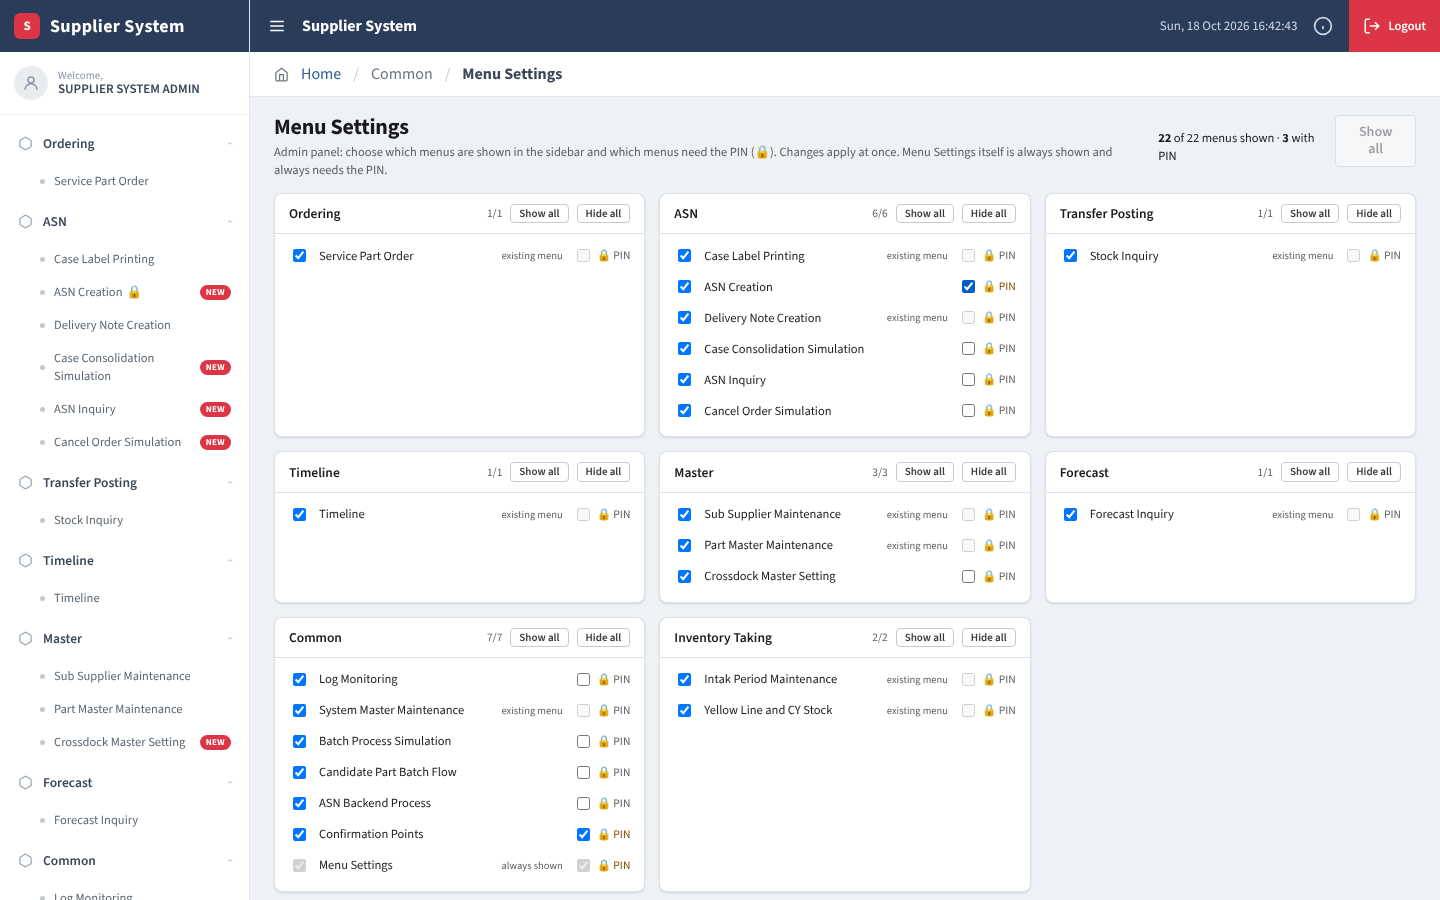
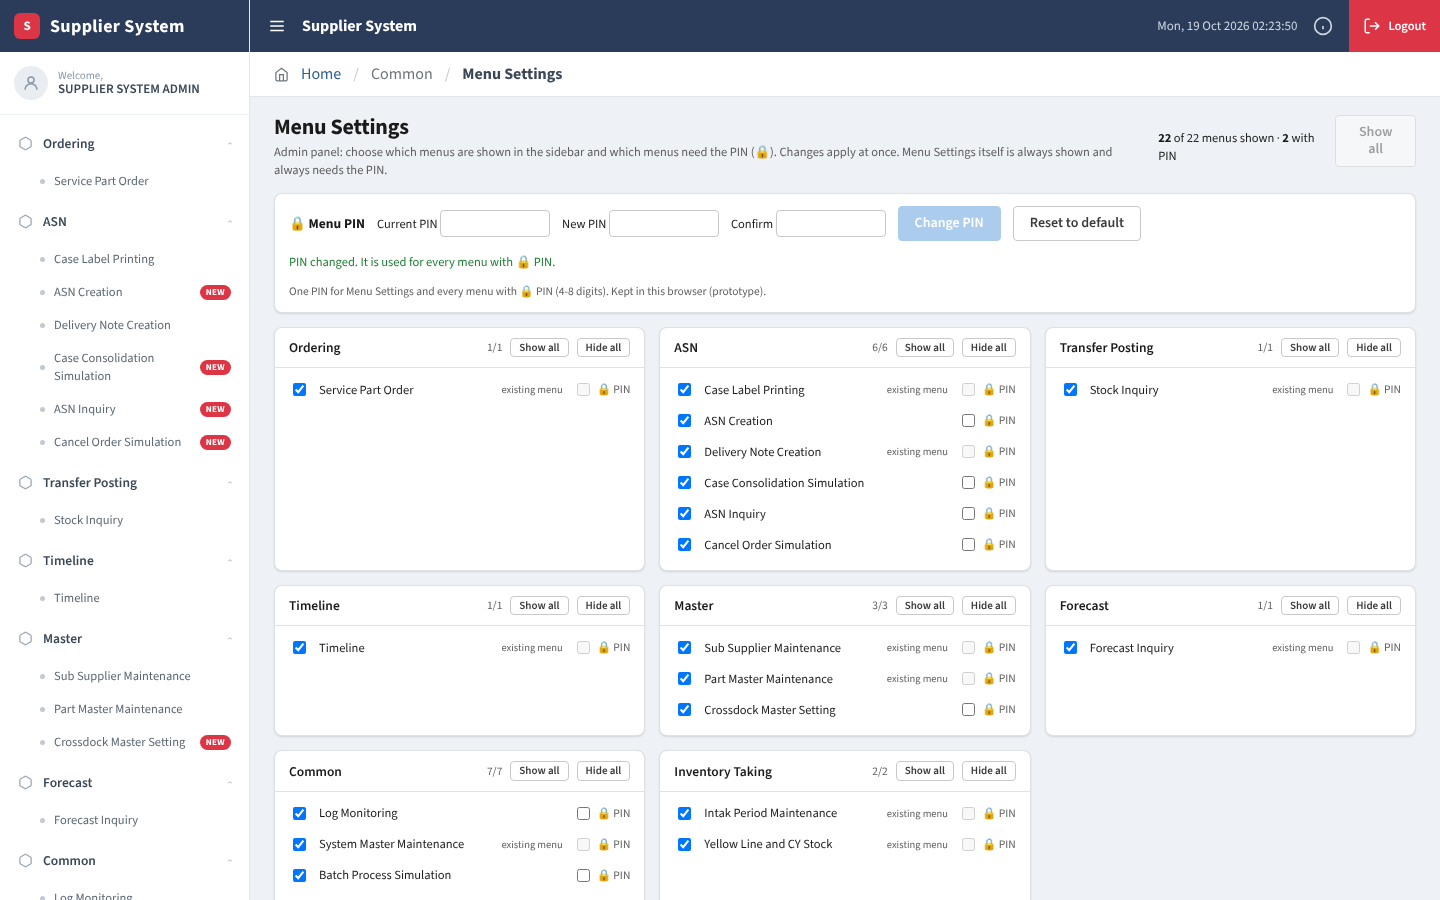
Prototype: change the menu PIN in Menu Settings
Menu PIN card (current / new / confirm, 4-8 digits, reset to default);
the PIN gate reads the current hash, so the new PIN applies to Menu
Settings and every menu with PIN.

Claude-Session: https://claude.ai/code/session_01QL8Do8Pd2rXEDNa1ifG2RK

diff --git a/app/src/features/menuSettings/MenuSettingsPage.tsx b/app/src/features/menuSettings/MenuSettingsPage.tsx
@@ -1,8 +1,35 @@
 import { LOCKED_ITEMS, NAV_GROUPS, setHiddenMenus, useHiddenMenus } from '../../lib/nav';
-import { ALWAYS_PIN, setPinMenus, usePinMenus } from '../../lib/pin';
+import { useState } from 'react';
+import { ALWAYS_PIN, changePin, resetPin, setPinMenus, usePinMenus } from '../../lib/pin';
 import { ROUTE_BY_NAV_ITEM } from '../../routes';
 
 const card = { border: '1px solid var(--color-divider)', borderRadius: 8, background: 'var(--color-neutral-100)', boxShadow: 'var(--shadow-sm)' };
+
+function ChangePinCard() {
+  const [cur, setCur] = useState('');
+  const [next, setNext] = useState('');
+  const [again, setAgain] = useState('');
+  const [msg, setMsg] = useState<{ ok: boolean; text: string } | null>(null);
+  const inp = { padding: '5px 8px', fontSize: 13, width: 110, letterSpacing: '.2em', border: '1px solid var(--color-neutral-400)', borderRadius: 4 };
+  const save = async () => {
+    if (next !== again) { setMsg({ ok: false, text: 'New PIN and confirmation are different.' }); return; }
+    const err = await changePin(cur, next);
+    setMsg(err ? { ok: false, text: err } : { ok: true, text: 'PIN changed. It is used for every menu with 🔒 PIN.' });
+    if (!err) { setCur(''); setNext(''); setAgain(''); }
+  };
+  return (
+    <div style={{ ...card, padding: '12px 14px', display: 'flex', alignItems: 'center', gap: 12, flexWrap: 'wrap', fontSize: 12.5 }}>
+      <b style={{ fontSize: 13.5 }}>🔒 Menu PIN</b>
+      <label>Current PIN <input type="password" inputMode="numeric" aria-label="Current PIN" value={cur} onChange={(e) => setCur(e.target.value)} style={inp} /></label>
+      <label>New PIN <input type="password" inputMode="numeric" aria-label="New PIN" value={next} onChange={(e) => setNext(e.target.value)} style={inp} /></label>
+      <label>Confirm <input type="password" inputMode="numeric" aria-label="Confirm new PIN" value={again} onChange={(e) => setAgain(e.target.value)} style={inp} /></label>
+      <button className="btn btn-primary" disabled={!cur || !next || !again} onClick={() => { void save(); }}>Change PIN</button>
+      <button className="btn btn-secondary" onClick={() => { resetPin(); setMsg({ ok: true, text: 'PIN reset to the default.' }); }}>Reset to default</button>
+      {msg && <span style={{ color: msg.ok ? '#1e7e34' : '#c0392b' }}>{msg.text}</span>}
+      <span style={{ flexBasis: '100%', fontSize: 11.5, color: 'var(--color-neutral-600)' }}>One PIN for Menu Settings and every menu with 🔒 PIN (4-8 digits). Kept in this browser (prototype).</span>
+    </div>
+  );
+}
 
 /** Admin panel: choose which sidebar menus are shown. Saved at once in this browser (prototype). */
 export function MenuSettingsPage() {
@@ -28,6 +55,7 @@ export function MenuSettingsPage() {
         <span style={{ fontSize: 12.5, alignSelf: 'center' }}><b>{shown}</b> of {all.length} menus shown · <b>{pins.length + ALWAYS_PIN.size}</b> with PIN</span>
         <button className="btn btn-secondary" disabled={!hidden.length} onClick={() => setHiddenMenus([])}>Show all</button>
       </div>
+      <ChangePinCard />
       <div style={{ display: 'grid', gridTemplateColumns: 'repeat(auto-fill, minmax(300px, 1fr))', gap: 14 }}>
         {NAV_GROUPS.map(([group, items]) => {
           const free = items.filter((i) => !LOCKED_ITEMS.has(i));

diff --git a/app/src/lib/pin.ts b/app/src/lib/pin.ts
@@ -1,7 +1,30 @@
 import { useSyncExternalStore } from 'react';
 
 /** SHA-256 of the menu PIN (default 1810). Prototype only: a client-side gate, not real access control. */
[2 lines of base64/hex data omitted]
+const HASH_KEY = 'nsp.pinHash';
+
+export async function sha256(text: string): Promise<string> {
+  const buf = await crypto.subtle.digest('SHA-256', new TextEncoder().encode(text));
+  return Array.from(new Uint8Array(buf)).map((b) => b.toString(16).padStart(2, '0')).join('');
+}
+
+/** Current PIN hash: changed in Menu Settings (kept in this browser), else the default (1810). */
+export function getPinHash(): string {
+  try { return window.localStorage.getItem(HASH_KEY) || DEFAULT_PIN_HASH; } catch { return DEFAULT_PIN_HASH; }
+}
+
+/** Change the PIN after checking the current one. Returns an error text or null when saved. */
+export async function changePin(current: string, next: string): Promise<string | null> {
+  if ((await sha256(current.trim())) !== getPinHash()) return 'Current PIN is wrong.';
+  if (!/^\d{4,8}$/.test(next.trim())) return 'New PIN must be 4-8 digits.';
+  try { window.localStorage.setItem(HASH_KEY, await sha256(next.trim())); } catch { return 'Cannot save in this browser.'; }
+  return null;
+}
+
+export function resetPin(): void {
+  try { window.localStorage.removeItem(HASH_KEY); } catch { /* storage unavailable */ }
+}
 
 /** Menus that always need the PIN (the admin panel itself). */
 export const ALWAYS_PIN = new Set(['Menu Settings']);

diff --git a/app/src/components/PinGate.tsx b/app/src/components/PinGate.tsx
@@ -1,21 +1,18 @@
 import { useState, type ReactNode } from 'react';
 import { card } from '../features/asnCrossdock/styles';
+import { sha256 } from '../lib/pin';
 
 /* Light PIN gate for a menu of the prototype. Only the SHA-256 of the PIN is in the code; the unlock lasts for the
  * browser session. This is a client-side gate of a static site, not real access control. */
 
 const SESSION_PREFIX = 'pin.unlocked.';
 
-async function sha256(text: string): Promise<string> {
-  const buf = await crypto.subtle.digest('SHA-256', new TextEncoder().encode(text));
-  return Array.from(new Uint8Array(buf)).map((b) => b.toString(16).padStart(2, '0')).join('');
-}
 
 function isUnlocked(id: string): boolean {
   try { return window.sessionStorage.getItem(SESSION_PREFIX + id) === '1'; } catch { return false; }
 }
 
-export function PinGate({ id, title, hash, children }: { id: string; title: string; hash: string; children: ReactNode }) {
+export function PinGate({ id, title, hash, children }: { id: string; title: string; hash: () => string; children: ReactNode }) {
   const [ok, setOk] = useState(() => isUnlocked(id));
   const [pin, setPin] = useState('');
   const [error, setError] = useState(false);
@@ -25,7 +22,7 @@ export function PinGate({ id, title, hash, children }: { id: string; title: stri
 
   const submit = async () => {
     setBusy(true);
-    const match = (await sha256(pin.trim())) === hash;
+    const match = (await sha256(pin.trim())) === hash();
     setBusy(false);
     if (match) {
       try { window.sessionStorage.setItem(SESSION_PREFIX + id, '1'); } catch { /* session only in memory */ }

diff --git a/app/src/components/shell/AppShell.tsx b/app/src/components/shell/AppShell.tsx
@@ -1,6 +1,6 @@
 import type { ReactNode } from 'react';
 import type { RouteKey } from '../../routes';
-import { needsPin, PIN_HASH, usePinMenus } from '../../lib/pin';
+import { getPinHash, needsPin, usePinMenus } from '../../lib/pin';
 import { PinGate } from '../PinGate';
 import { Footer } from './Footer';
 import { Sidebar } from './Sidebar';
@@ -23,7 +23,7 @@ export function AppShell({ activeItem, onNavigate, breadcrumb, children }: AppSh
         <TopHeader />
         {breadcrumb}
         <main style={{ flex: 1, background: '#eef1f5', paddingBottom: 8 }}>
-          {gated ? <PinGate key={activeItem} id={activeItem} title={activeItem} hash={PIN_HASH}>{children}</PinGate> : children}
+          {gated ? <PinGate key={activeItem} id={activeItem} title={activeItem} hash={getPinHash}>{children}</PinGate> : children}
         </main>
         <Footer />
       </div>
